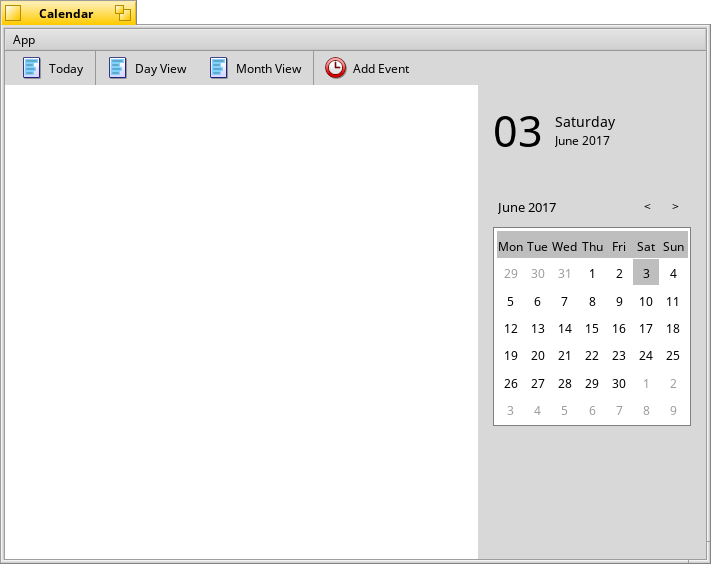
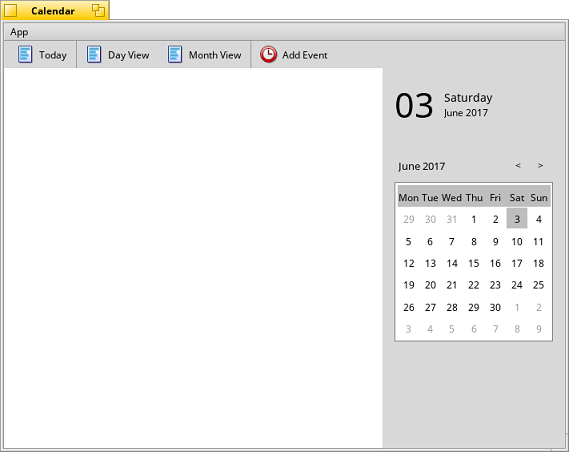
Fix image size and link, delete swap file (report-2). (#81)

diff --git a/content/blog/AkshayAgarwal007/2017-06-02_gsoc_2017_calendar_application_week_3_4_report.md b/content/blog/AkshayAgarwal007/2017-06-02_gsoc_2017_calendar_application_week_3_4_report.md
@@ -55,7 +55,7 @@ preferences.</p>
 calendar widget.</i></p>
 
 <p>The code for the same is here:
-https://github.com/AkshayAgarwal007/Calendar</p>
+<a href="https://github.com/AkshayAgarwal007/Calendar">https://github.com/AkshayAgarwal007/Calendar</a></p>
 
 <p>Also there are minor peculiarities I have noted with the calendar view i.e if
 we change the selected day, the current day should always remain highlighted
@@ -66,4 +66,4 @@ the day of week header can be made locale aware.</p>
 kit, Haiku date/time classes and the calendar view.</p>
 
 <p>Next I'll be writing the event class and would be working on GUI for Add
-Event section as well as the day view.</p>
+Event section as well as the Day View.</p>
